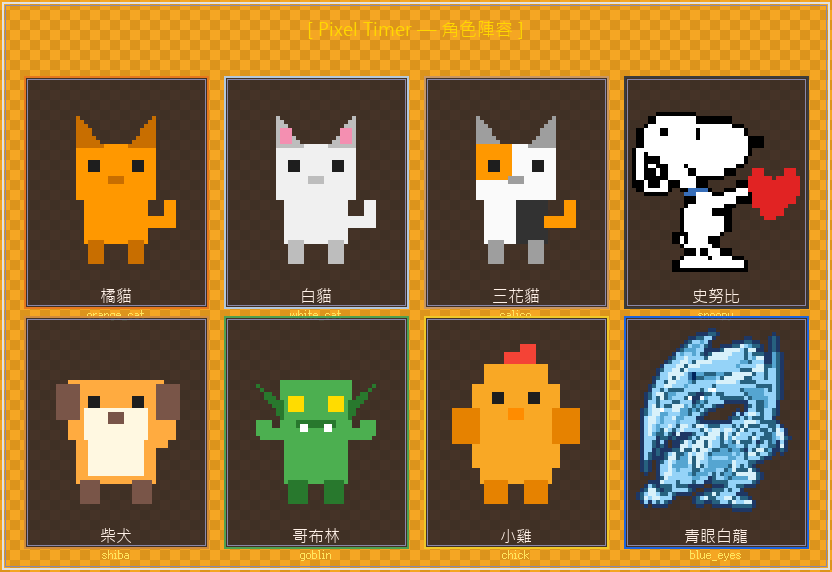
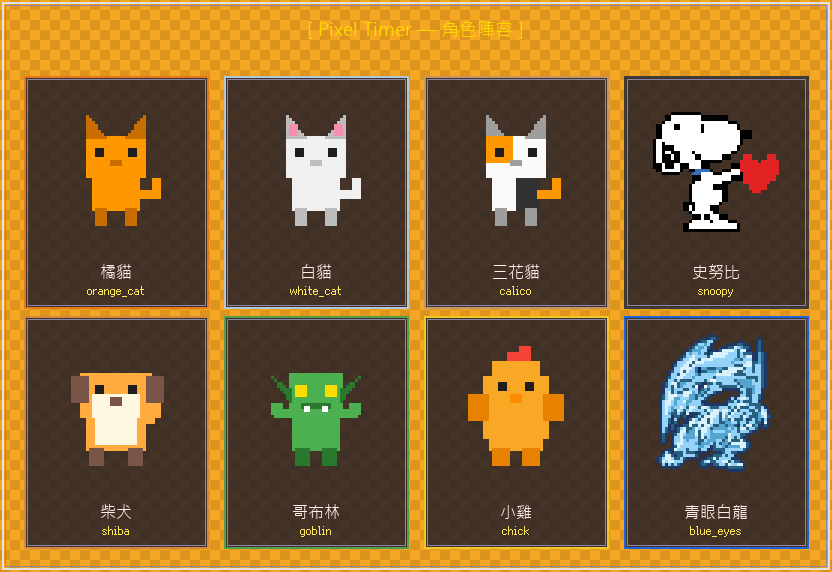
docs: fix ASCII art alignment + redo screenshots for clarity
- Rewrite the timer-demo and character-roster ASCII blocks so box borders
  no longer break (CJK is double-width inside single-width borders); all
  box interiors are now pure-ASCII, CJK only on standalone caption lines.
- bubble.png: lower the pet and reposition stars so they no longer overlap
  the top caption; place the typewriter cursor right after the text.
- desktop.png: seat pets on the taskbar (no clipping); point the speech
  bubble tail onto the chick's head.
- all_characters.png: shrink sprites to 3x so the English IDs fit inside
  each card border instead of being clipped.

diff --git a/make_readme_images.py b/make_readme_images.py
@@ -102,7 +102,7 @@ def pixel_border(draw, rect, color, width=2):
 
 # ── 1. ALL CHARACTERS banner ────────────────────────────────────────────────
 def make_all_characters():
-    SCALE    = 4        # 48 → 192 px per sprite
+    SCALE    = 3        # 48 → 144 px per sprite (leaves room for labels)
     CELL_W   = 200
     CELL_H   = 240
     PADDING  = 16
@@ -147,20 +147,19 @@ def make_all_characters():
         pixel_border(d2, (card_x0, card_y0, card_x1, card_y1), accent, 2)
         pixel_border(d2, (card_x0 + 3, card_y0 + 3, card_x1 - 3, card_y1 - 3), BORDER_LO, 1)
 
-        # sprite (idle_0, 4x scale)
+        # sprite (idle_0), seated in the upper part of the card
         sprite = load_sprite(char, "idle", 0, scale=SCALE)
         sw, sh = sprite.size
         sx = cx - sw // 2
-        sy = card_y0 + 12
+        sy = card_y0 + 18
         canvas.alpha_composite(sprite, (sx, sy))
 
-        # name label (CJK font for full character coverage)
+        # labels anchored to the card bottom so they always sit inside the border
         name_w = draw.textlength(name, font=font_label)
-        draw.text((cx - name_w // 2, card_y0 + sh + 16), name, font=font_label, fill=TEXT_WARM)
+        draw.text((cx - name_w // 2, card_y1 - 48), name, font=font_label, fill=TEXT_WARM)
 
-        # english name (smaller, gold)
         eng_w = draw.textlength(char, font=font_sub)
-        draw.text((cx - eng_w // 2, card_y0 + sh + 38), char, font=font_sub, fill=(GOLD[0], GOLD[1], GOLD[2], 160))
+        draw.text((cx - eng_w // 2, card_y1 - 26), char, font=font_sub, fill=(GOLD[0], GOLD[1], GOLD[2], 160))
 
     # outer border
     pixel_border(draw, (2, 2, W - 3, H - 3), BORDER_HI, 2)
@@ -183,36 +182,42 @@ def make_desktop():
         draw.line([(0, y), (W, y)], fill=(40, 40, 70, 60))
 
     # taskbar
-    taskbar = Image.new("RGBA", (W, 36), TASKBAR)
+    TB = 36
+    taskbar = Image.new("RGBA", (W, TB), TASKBAR)
     tb_draw = ImageDraw.Draw(taskbar)
     tb_draw.line([(0, 0), (W, 0)], fill=BORDER_LO)
-    canvas.alpha_composite(taskbar, (0, H - 36))
+    canvas.alpha_composite(taskbar, (0, H - TB))
 
-    # system tray area
+    # system tray clock
     font_sm = load_font(12)
-    draw.text((W - 80, H - 26), "22:00", font=font_sm, fill=TEXT_WARM)
+    draw.text((W - 70, H - 26), "22:00", font=font_sm, fill=TEXT_WARM)
 
-    # pets placed on desktop
-    SCALE = 3
-    pets_placed = [
-        ("orange_cat", "idle",     0, 120, 340),
-        ("shiba",      "idle",     0, 320, 370),
-        ("chick",      "counting", 0, 560, 380),
-    ]
-
-    for char, state, frame, px, py in pets_placed:
-        sprite = load_sprite(char, state, frame, scale=SCALE)
-        canvas.alpha_composite(sprite, (px, py))
-
-    # notification bubble next to chick
-    bubble_pet = "chick"
-    bx, by = 560, 380
-    _draw_bubble(canvas, bx - 240, by - 80, 230, 70,
-                 "時間到！休息一下～", bubble_pet)
-
-    # small label
+    # top-left desktop label
     font_cjk_sm = load_cjk_font(13)
-    draw.text((20, 14), "Pixel Timer  ·  系統匣常駐中", font=font_cjk_sm, fill=BORDER_LO)
+    draw.text((20, 16), "Pixel Timer  ·  系統匣常駐中", font=font_cjk_sm, fill=BORDER_LO)
+
+    # pets standing on the taskbar (feet rest on taskbar top, never clipped)
+    SCALE  = 3
+    feet_y = H - TB
+    pets_placed = [
+        ("orange_cat", "idle",     0, 150),
+        ("shiba",      "idle",     0, 380),
+        ("chick",      "counting", 0, 600),
+    ]
+    chick_cx = chick_top = None
+    for char, state, frame, px in pets_placed:
+        sprite = load_sprite(char, state, frame, scale=SCALE)
+        sw, sh = sprite.size
+        py = feet_y - sh
+        canvas.alpha_composite(sprite, (px, py))
+        if char == "chick":
+            chick_cx, chick_top = px + sw // 2, py
+
+    # notification bubble above the chick — tail points down onto its head
+    bw, bh = 240, 64
+    bx = chick_cx - bw + 24      # _draw_bubble tail sits at bx+bw-20 ≈ chick_cx
+    by = chick_top - bh - 18
+    _draw_bubble(canvas, bx, by, bw, bh, "時間到！休息一下～", "chick")
 
     out_path = OUT / "desktop.png"
     canvas.save(out_path)
@@ -250,7 +255,7 @@ def _draw_bubble(canvas, bx, by, bw, bh, text, char):
 
 # ── 3. BUBBLE close-up ──────────────────────────────────────────────────────
 def make_bubble():
-    W, H = 500, 260
+    W, H = 520, 280
     canvas = Image.new("RGBA", (W, H), DARK_BLUE)
     draw   = ImageDraw.Draw(canvas)
 
@@ -260,34 +265,38 @@ def make_bubble():
     for y in range(0, H, 32):
         draw.line([(0, y), (W, y)], fill=(50, 50, 80, 80))
 
-    SCALE = 4
-    # pet (orange_cat finished)
+    # caption (top) — drawn first so nothing else sits in this band
+    font_cjk_sm = load_cjk_font(13)
+    draw.text((14, 12), "RPG 對話氣泡  ·  打字機逐字效果  ·  點擊關閉",
+              font=font_cjk_sm, fill=BORDER_LO)
+
+    SCALE = 3
+    # pet (orange_cat finished), feet near bottom
     sprite = load_sprite("orange_cat", "finished", 0, scale=SCALE)
     sw, sh = sprite.size
-    pet_x = 60
-    pet_y = H - sh - 30
+    pet_x = 70
+    pet_y = H - sh - 40
     canvas.alpha_composite(sprite, (pet_x, pet_y))
 
-    # star effect (finished state)
-    star_color = (255, 240, 60)
-    for sx, sy in [(pet_x + sw // 2 - 30, pet_y - 20),
-                   (pet_x + sw // 2 + 20, pet_y - 30),
-                   (pet_x + sw // 2 - 10, pet_y - 45)]:
-        draw.text((sx, sy), "★", font=load_font(12), fill=star_color)
+    # star effect — clustered above the pet's head, safely below the caption band
+    star_font = load_cjk_font(16)
+    head_cx = pet_x + sw // 2
+    for sx, sy in [(head_cx - 38, pet_y - 20),
+                   (head_cx + 22, pet_y - 28),
+                   (head_cx - 6,  pet_y - 38)]:
+        draw.text((sx, sy), "★", font=star_font, fill=(255, 230, 70))
 
-    # bubble
-    _draw_bubble(canvas, pet_x + sw + 10, pet_y - 20, 240, 80,
-                 "休息一下！(^▽^)/", "orange_cat")
+    # bubble — right of the pet, vertically centred on it
+    bw, bh = 250, 84
+    bx = pet_x + sw + 20
+    by = pet_y + (sh - bh) // 2
+    text = "休息一下！(^▽^)/"
+    _draw_bubble(canvas, bx, by, bw, bh, text, "orange_cat")
 
-    # typewriter cursor blink indicator
-    font = load_font(12)
-    draw.text((pet_x + sw + 10 + 12 + 130, pet_y - 20 + (80 - 16) // 2),
-              "▎", font=font, fill=GOLD)
-
-    # label
-    font_cjk_sm = load_cjk_font(13)
-    draw.text((12, 12), "RPG 對話氣泡  ·  打字機逐字效果  ·  點擊關閉",
-              font=font_cjk_sm, fill=BORDER_LO)
+    # typewriter cursor — measured, placed right after the text
+    font_txt = load_cjk_font(14)
+    tw = draw.textlength(text, font=font_txt)
+    draw.text((bx + 12 + tw + 3, by + (bh - 18) // 2), "▌", font=font_txt, fill=GOLD)
 
     # outer border
     pixel_border(draw, (2, 2, W - 3, H - 3), BORDER_HI, 2)

diff --git a/README.md b/README.md
@@ -23,12 +23,16 @@
 就這樣。沒有什麼無聊的彈窗。只有很可愛的像素生物。
 
 ```
-  計時中 →           時間到！→
-  ╭──────╮          ╭──────────────────╮
-  │ ΦwΦ │  上下浮動  │  ★ 休息一下！ ★ │
-  │  ╰─╯ │ ~~~~~~~~~ │                  │
-  ╰──────╯          ╰──────────────────╯
-     ↕ ↕                  ↑↑↑跳跳跳↑↑↑
+  計時中 ── 桌寵上下浮動
+    ╭─────────────╮
+    │  ( o w o )  │   ↕
+    ╰─────────────╯
+
+  時間到 ── 跳起來 ＋ 星星 ＋ 對話氣泡
+    ╭─────────────╮
+    │  \( ^o^ )/  │   *  *  *
+    ╰─────────────╯
+       「休息一下！」
 ```
 
 ---
@@ -51,17 +55,12 @@
 目前共 **8 隻**，全部用 Pillow 程式化生成（對，都是 code 畫的，不是手繪）：
 
 ```
-  橘  貓    白  貓    三花貓    史努比
-  ╭──╮     ╭──╮     ╭──╮     ╭──╮
-  │▒▒│     │░░│     │▒░│     │██│
-  │ ω │     │ ω │     │ ω │     │ ᵕ │
-  ╰──╯     ╰──╯     ╰──╯     ╰──╯
-
-  柴  犬    哥布林    小  雞    青眼白龍
-  ╭──╮     ╭──╮     ╭──╮     ╭────╮
-  │ᵔᵔ│     │ʌʌ│     │°°│     │◈  ◈│
-  │ᴗ  │     │ ᷅ᵕ│     │ v │     │ ═══│
-  ╰──╯     ╰──╯     ╰──╯     ╰────╯
+   ╭───────╮ ╭───────╮ ╭───────╮ ╭───────╮
+   │ =^.^= │ │ =o.o= │ │ =^w^= │ │ (>_<) │
+   ╰───────╯ ╰───────╯ ╰───────╯ ╰───────╯
+   ╭───────╮ ╭───────╮ ╭───────╮ ╭───────╮
+   │ (^o^) │ │ (>O<) │ │ (.v.) │ │ {>o<} │
+   ╰───────╯ ╰───────╯ ╰───────╯ ╰───────╯
 ```
 
 | 角色 ID | 中文名 | 特色 |
